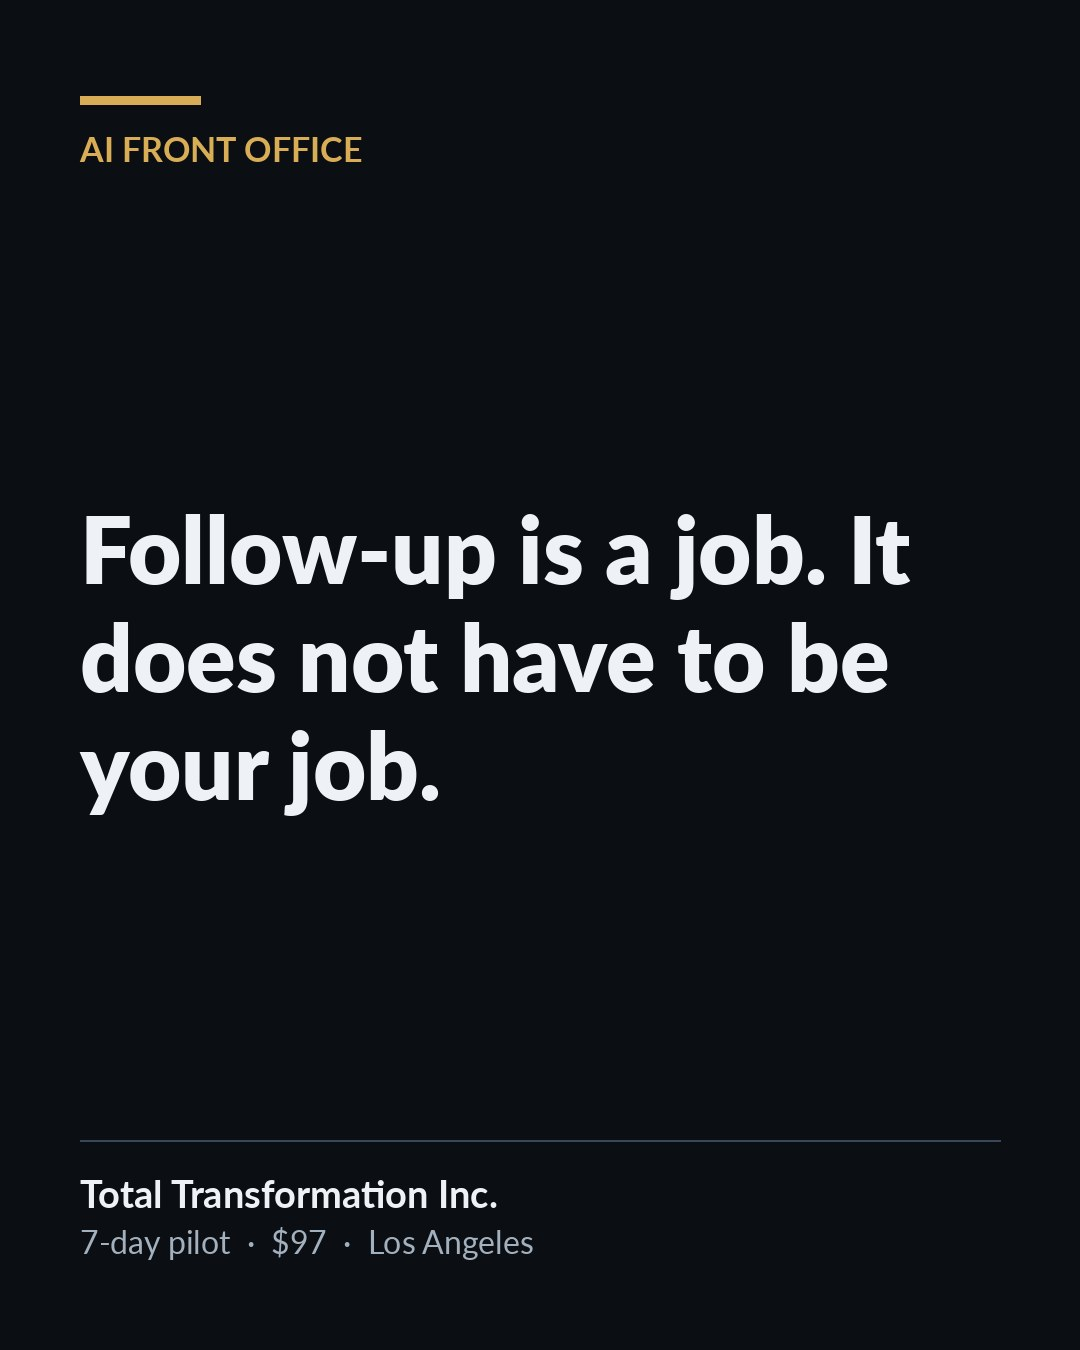
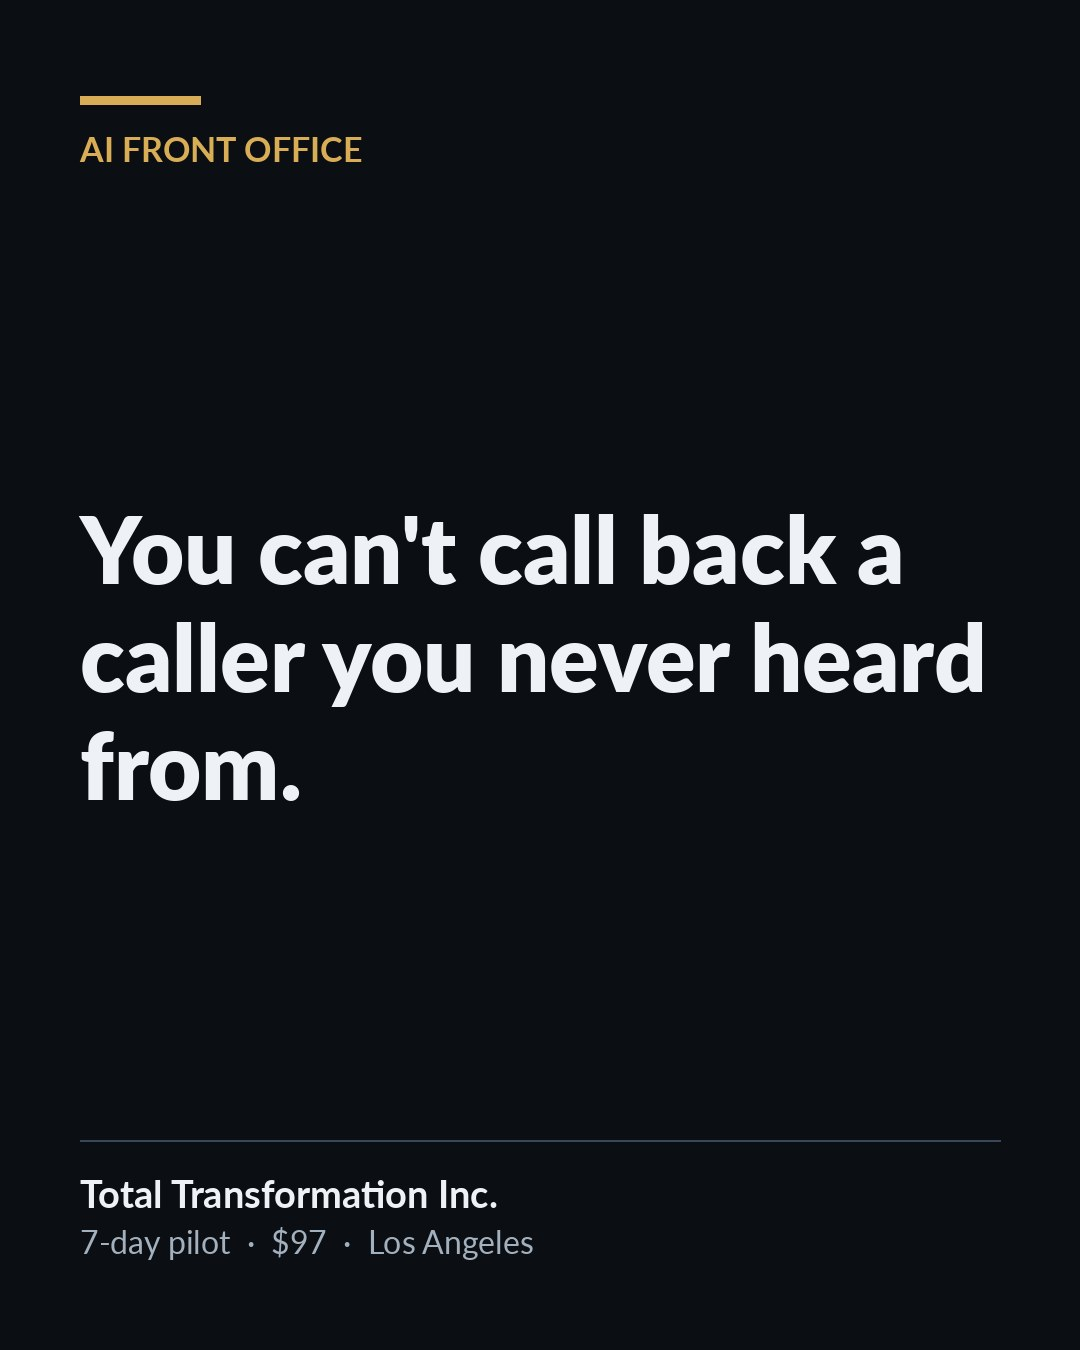
Make social queue and feed match the real $97 pilot

Changed region(s): [[0.0611, 0.3733, 0.9167, 0.6222]]

diff --git a/social/release.py b/social/release.py
@@ -34,7 +34,7 @@ feed=f'''<?xml version="1.0" encoding="UTF-8"?>
   <title>Total Transformation Inc. - AI Front Office</title>
   <link>{SITE}/front-office.html</link>
   <atom:link href="{SITE}/feed.xml" rel="self" type="application/rss+xml"/>
-  <description>Short posts for local service business owners about missed calls, follow-up and the 7-day pilot.</description>
+  <description>Short posts for local service business owners about missed calls and the 7-day pilot.</description>
   <language>en-us</language>
   <lastBuildDate>{format_datetime(now)}</lastBuildDate>
 {chr(10).join(items)}
